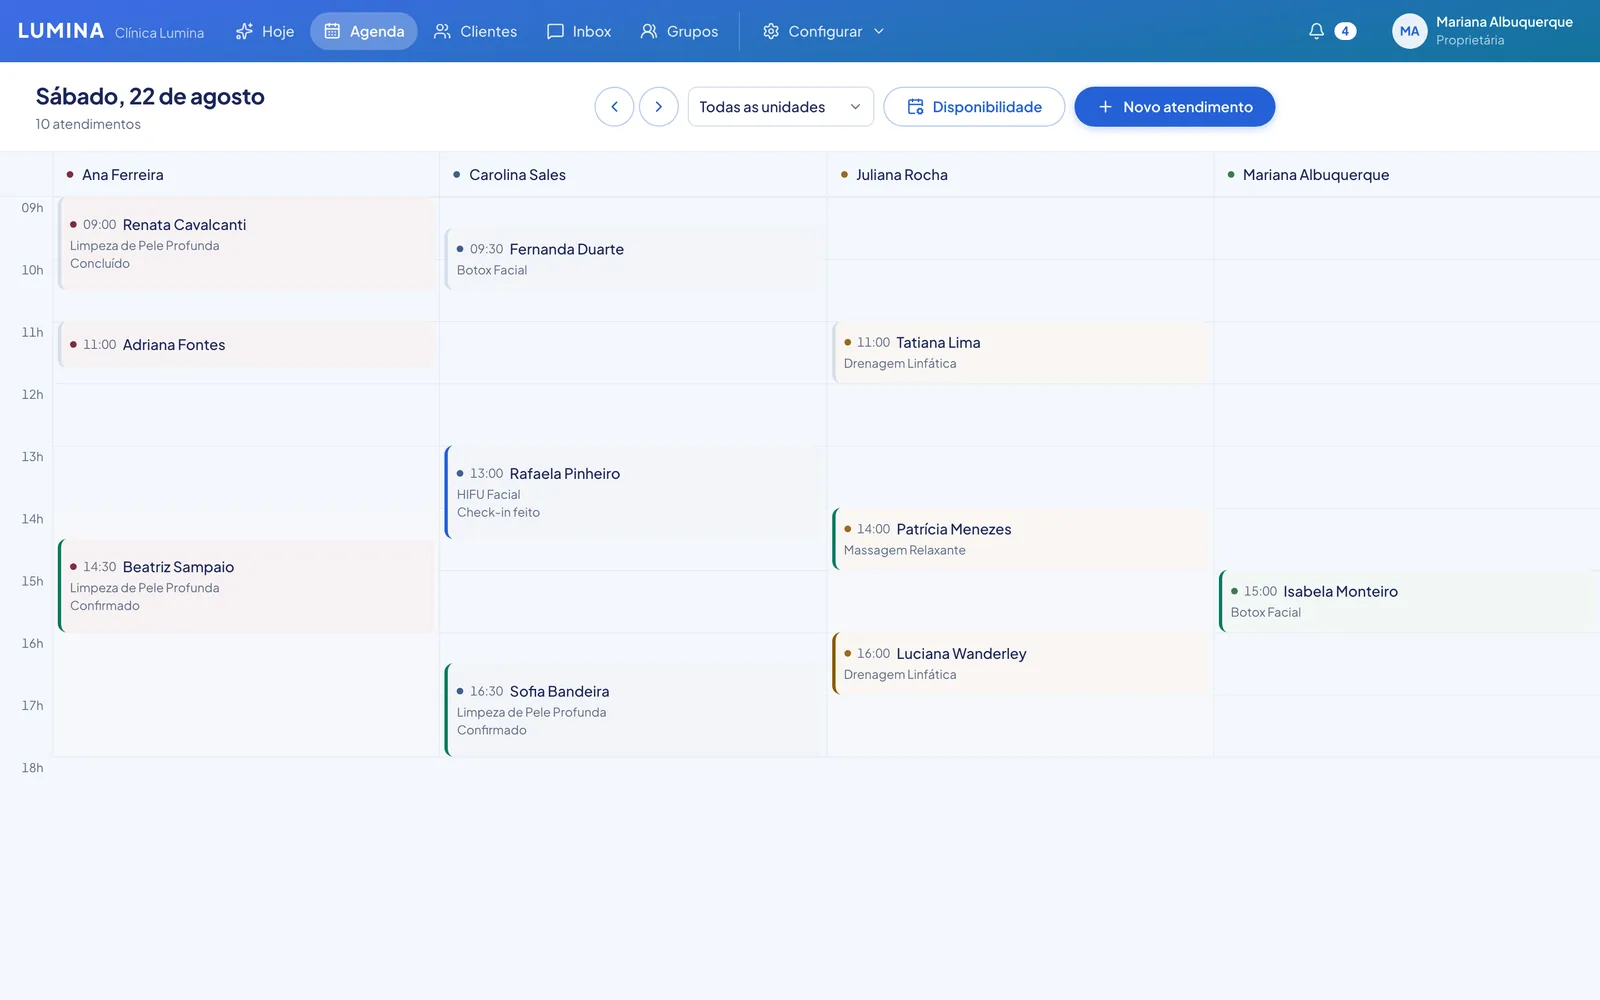
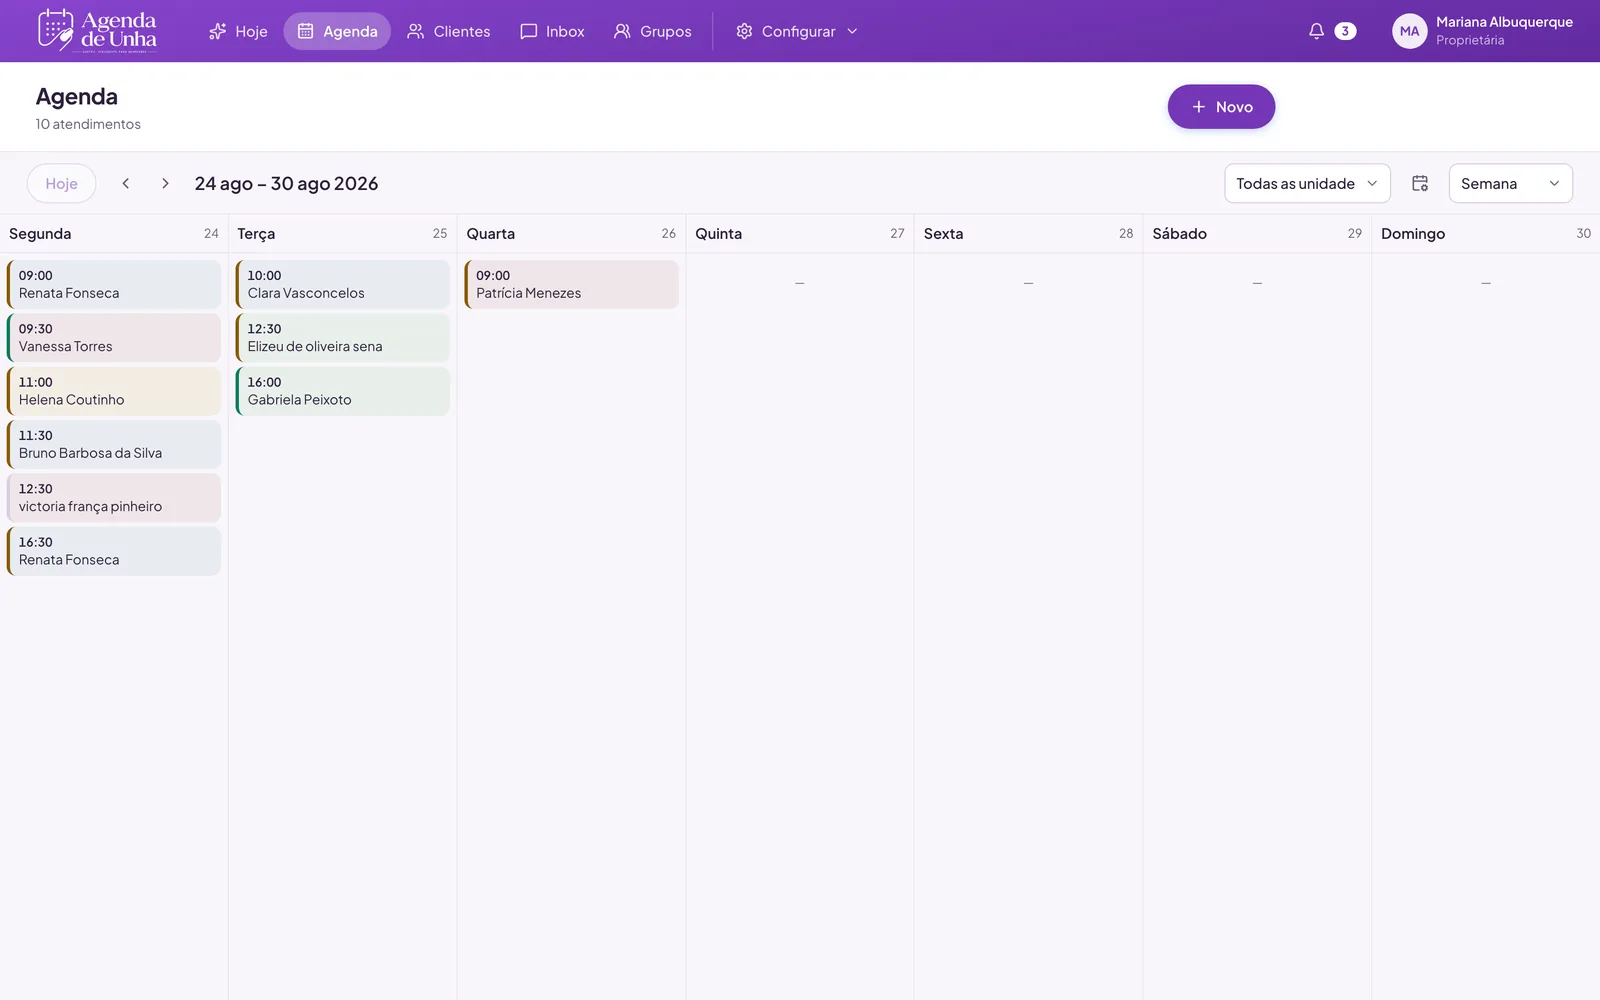
Tempo real do Inbox sem Redis e landing com os prints da marca nova
O barramento de eventos publicava no Redis e, sem REDIS_URL, descartava o
evento em silêncio: a rota SSE respondia 503 e a tela caía no poll de 30
segundos — mais lento que o comportamento que existia antes do tempo real.
Produção tem Redis; desenvolvimento não, então era exatamente no ambiente de
teste que o recurso parecia não existir. Agora, sem Redis, o barramento usa um
EventEmitter em processo (guardado em globalThis por causa do hot reload), que
num servidor único entrega a mesma semântica. Redis continua sendo o caminho
de produção, porque é o único que atravessa instâncias.

A landing vendia um produto que não existe mais: os sete prints eram da era
azul "Lumina", com a barra antiga e a URL app.lumina.com.br na moldura do
navegador — um site roxo da Agenda de Unha mostrando outro produto. Prints
recapturados do sistema atual (marca roxa, dados reais de agenda) e as URLs
das molduras apontando para agendadeunha.com.br, que é o domínio que está no
ar.

diff --git a/src/app/api/inbox/events/route.ts b/src/app/api/inbox/events/route.ts
@@ -1,26 +1,32 @@
 import IORedis from "ioredis";
 import { getSession } from "@/server/auth";
-import { inboxChannel } from "@/server/services/inbox-events";
+import { getLocalInboxBus, inboxChannel } from "@/server/services/inbox-events";
 
 export const runtime = "nodejs";
 export const dynamic = "force-dynamic";
 
 const encoder = new TextEncoder();
 
-/** Canal autenticado de eventos do Inbox (Server-Sent Events). */
+/**
+ * Canal autenticado de eventos do Inbox (Server-Sent Events).
+ *
+ * Duas fontes, mesma semântica: com REDIS_URL o canal atravessa instâncias
+ * (produção); sem, ele assina o barramento em processo — que num servidor
+ * único entrega o mesmo resultado. Responder 503 na ausência de Redis, como
+ * era antes, deixava o desenvolvimento sem tempo real nenhum e escondia
+ * regressões do caminho vivo até o deploy.
+ */
 export async function GET(request: Request) {
   const ctx = await getSession();
   if (!ctx || ctx.role === "professional") {
     return new Response("Não autorizado", { status: 401 });
   }
 
+  const channel = inboxChannel(ctx.organizationId);
   const redisUrl = process.env.REDIS_URL;
-  if (!redisUrl) return new Response("Tempo real indisponível", { status: 503 });
 
-  let subscriber: IORedis | null = new IORedis(redisUrl, {
-    maxRetriesPerRequest: null,
-    enableReadyCheck: false,
-  });
+  let subscriber: IORedis | null = null;
+  let localHandler: ((payload: string) => void) | null = null;
   let heartbeat: ReturnType<typeof setInterval> | null = null;
   let closed = false;
 
@@ -28,6 +34,10 @@ export async function GET(request: Request) {
     if (closed) return;
     closed = true;
     if (heartbeat) clearInterval(heartbeat);
+    if (localHandler) {
+      getLocalInboxBus().off(channel, localHandler);
+      localHandler = null;
+    }
     const current = subscriber;
     subscriber = null;
     if (current) {
@@ -42,15 +52,24 @@ export async function GET(request: Request) {
         if (!closed) controller.enqueue(encoder.encode(chunk));
       };
 
-      subscriber!.on("message", (_channel, message) => {
-        send(`data: ${message}\n\n`);
-      });
-      subscriber!.on("error", (error) => {
-        console.warn("[inbox realtime] conexão de leitura:", error.message);
-      });
-
       try {
-        await subscriber!.subscribe(inboxChannel(ctx.organizationId));
+        if (redisUrl) {
+          subscriber = new IORedis(redisUrl, {
+            maxRetriesPerRequest: null,
+            enableReadyCheck: false,
+          });
+          subscriber.on("message", (_channel, message) => {
+            send(`data: ${message}\n\n`);
+          });
+          subscriber.on("error", (error) => {
+            console.warn("[inbox realtime] conexão de leitura:", error.message);
+          });
+          await subscriber.subscribe(channel);
+        } else {
+          localHandler = (payload: string) => send(`data: ${payload}\n\n`);
+          getLocalInboxBus().on(channel, localHandler);
+        }
+
         // Confirma a conexão e faz o cliente sincronizar uma vez, fechando a
         // pequena janela entre o HTML inicial e a assinatura do canal.
         send(`event: ready\ndata: {}\n\n`);

diff --git a/src/server/services/inbox-events.ts b/src/server/services/inbox-events.ts
@@ -1,4 +1,5 @@
 import "server-only";
+import { EventEmitter } from "node:events";
 import { getRedis } from "@/server/queues/redis";
 
 export type InboxEvent = {
@@ -11,6 +12,35 @@ export function inboxChannel(organizationId: number): string {
 }
 
 /**
+ * Barramento local, usado quando não há Redis.
+ *
+ * Sem ele, um ambiente sem REDIS_URL (o desenvolvimento, tipicamente) ficava
+ * com o tempo real MUDO em silêncio: o webhook publicava no vazio, a rota SSE
+ * respondia 503 e a tela caía no poll de 30 segundos — mais lento que o
+ * comportamento antigo. Num processo único, um EventEmitter entrega exatamente
+ * a mesma semântica do pub/sub; o Redis continua sendo o caminho de produção
+ * porque é o único que atravessa instâncias.
+ *
+ * Guardado em globalThis pelo mesmo motivo dos workers: em desenvolvimento o
+ * módulo é recarregado a cada edição e cada recarga criaria um barramento novo,
+ * órfão dos assinantes antigos.
+ */
+declare global {
+  var __inboxLocalBus: EventEmitter | undefined;
+}
+
+export function getLocalInboxBus(): EventEmitter {
+  if (!globalThis.__inboxLocalBus) {
+    const bus = new EventEmitter();
+    // Cada aba aberta do Inbox é um assinante; o teto padrão de 10 dispararia
+    // aviso com meia dúzia de atendentes de duas telas cada.
+    bus.setMaxListeners(200);
+    globalThis.__inboxLocalBus = bus;
+  }
+  return globalThis.__inboxLocalBus;
+}
+
+/**
  * A gravação no banco é a fonte da verdade. O evento apenas avisa as telas
  * abertas que já podem reler essa verdade, portanto uma indisponibilidade
  * momentânea do Redis nunca pode fazer o webhook falhar.
@@ -19,12 +49,16 @@ export async function publishInboxEvent(
   organizationId: number,
   event: InboxEvent,
 ): Promise<void> {
+  const payload = JSON.stringify(event);
   const redis = getRedis();
-  if (!redis) return;
-  await redis.publish(inboxChannel(organizationId), JSON.stringify(event)).catch((error) => {
-    console.warn(
-      "[inbox realtime] evento não publicado:",
-      error instanceof Error ? error.message : error,
-    );
-  });
+  if (redis) {
+    await redis.publish(inboxChannel(organizationId), payload).catch((error) => {
+      console.warn(
+        "[inbox realtime] evento não publicado:",
+        error instanceof Error ? error.message : error,
+      );
+    });
+    return;
+  }
+  getLocalInboxBus().emit(inboxChannel(organizationId), payload);
 }

diff --git a/src/components/marketing/showcase.tsx b/src/components/marketing/showcase.tsx
@@ -20,7 +20,7 @@ const TELAS = [
   {
     id: "hoje",
     aba: "Hoje",
-    url: "app.lumina.com.br/hoje",
+    url: "agendadeunha.com.br/hoje",
     titulo: "O dia inteiro em três segundos",
     texto:
       "Quantos atendimentos, quanto está previsto entrar, quem ainda não confirmou e o que precisa da sua atenção agora.",
@@ -28,7 +28,7 @@ const TELAS = [
   {
     id: "agenda",
     aba: "Agenda",
-    url: "app.lumina.com.br/agenda",
+    url: "agendadeunha.com.br/agenda",
     titulo: "Uma agenda que recusa horário impossível",
     texto:
       "Intervalo entre atendimentos, folga, bloqueio e sala ocupada saem da conta antes de o horário ser oferecido.",
@@ -36,7 +36,7 @@ const TELAS = [
   {
     id: "inbox",
     aba: "Inbox",
-    url: "app.lumina.com.br/inbox",
+    url: "agendadeunha.com.br/inbox",
     titulo: "A conversa e a ficha da cliente lado a lado",
     texto:
       "A atendente responde, vê o histórico e marca o horário na mesma tela, sem pedir o que a clínica já sabe.",
@@ -44,7 +44,7 @@ const TELAS = [
   {
     id: "agente",
     aba: "Agente de IA",
-    url: "app.lumina.com.br/agente",
+    url: "agendadeunha.com.br/agente",
     titulo: "Você decide o que a IA pode fazer",
     texto:
       "Cada ação do agente liga e desliga separadamente, e tudo que ele fez fica registrado com autoria.",
@@ -52,7 +52,7 @@ const TELAS = [
   {
     id: "financeiro",
     aba: "Financeiro",
-    url: "app.lumina.com.br/financeiro",
+    url: "agendadeunha.com.br/financeiro",
     titulo: "O mês fechado sem planilha",
     texto:
       "Receita por serviço, contas a pagar e a comissão de cada profissional, calculada a partir do atendimento.",
@@ -60,14 +60,14 @@ const TELAS = [
   {
     id: "clientes",
     aba: "Clientes",
-    url: "app.lumina.com.br/clientes",
+    url: "agendadeunha.com.br/clientes",
     titulo: "A ficha que a recepção consulta em pé",
     texto: "Histórico, faltas, preferências e quando é hora de chamar de volta.",
   },
   {
     id: "catalogo",
     aba: "Catálogo",
-    url: "app.lumina.com.br/catalogo",
+    url: "agendadeunha.com.br/catalogo",
     titulo: "Preço, duração, custo e margem",
     texto:
       "O catálogo define quanto tempo cada serviço ocupa na agenda e quanto ele deixa de verdade.",

diff --git a/src/app/(marketing)/page.tsx b/src/app/(marketing)/page.tsx
@@ -284,7 +284,7 @@ export default async function LandingPage() {
                 é o pior caso de repaint justamente onde está a maior parte do
                 tráfego. */}
             <div className="animate-fade-in mockup-tilt [animation-delay:200ms] lg:animate-mockup-in">
-              <BrowserFrame url="app.lumina.com.br/hoje">
+              <BrowserFrame url="agendadeunha.com.br/hoje">
           {/* eslint-disable-next-line @next/next/no-img-element -- os sete prints
               já saem daqui em WebP de 1600px (316KB somados). Passar por next/image
               exigiria o sharp em runtime, que não está declarado no package.json e
